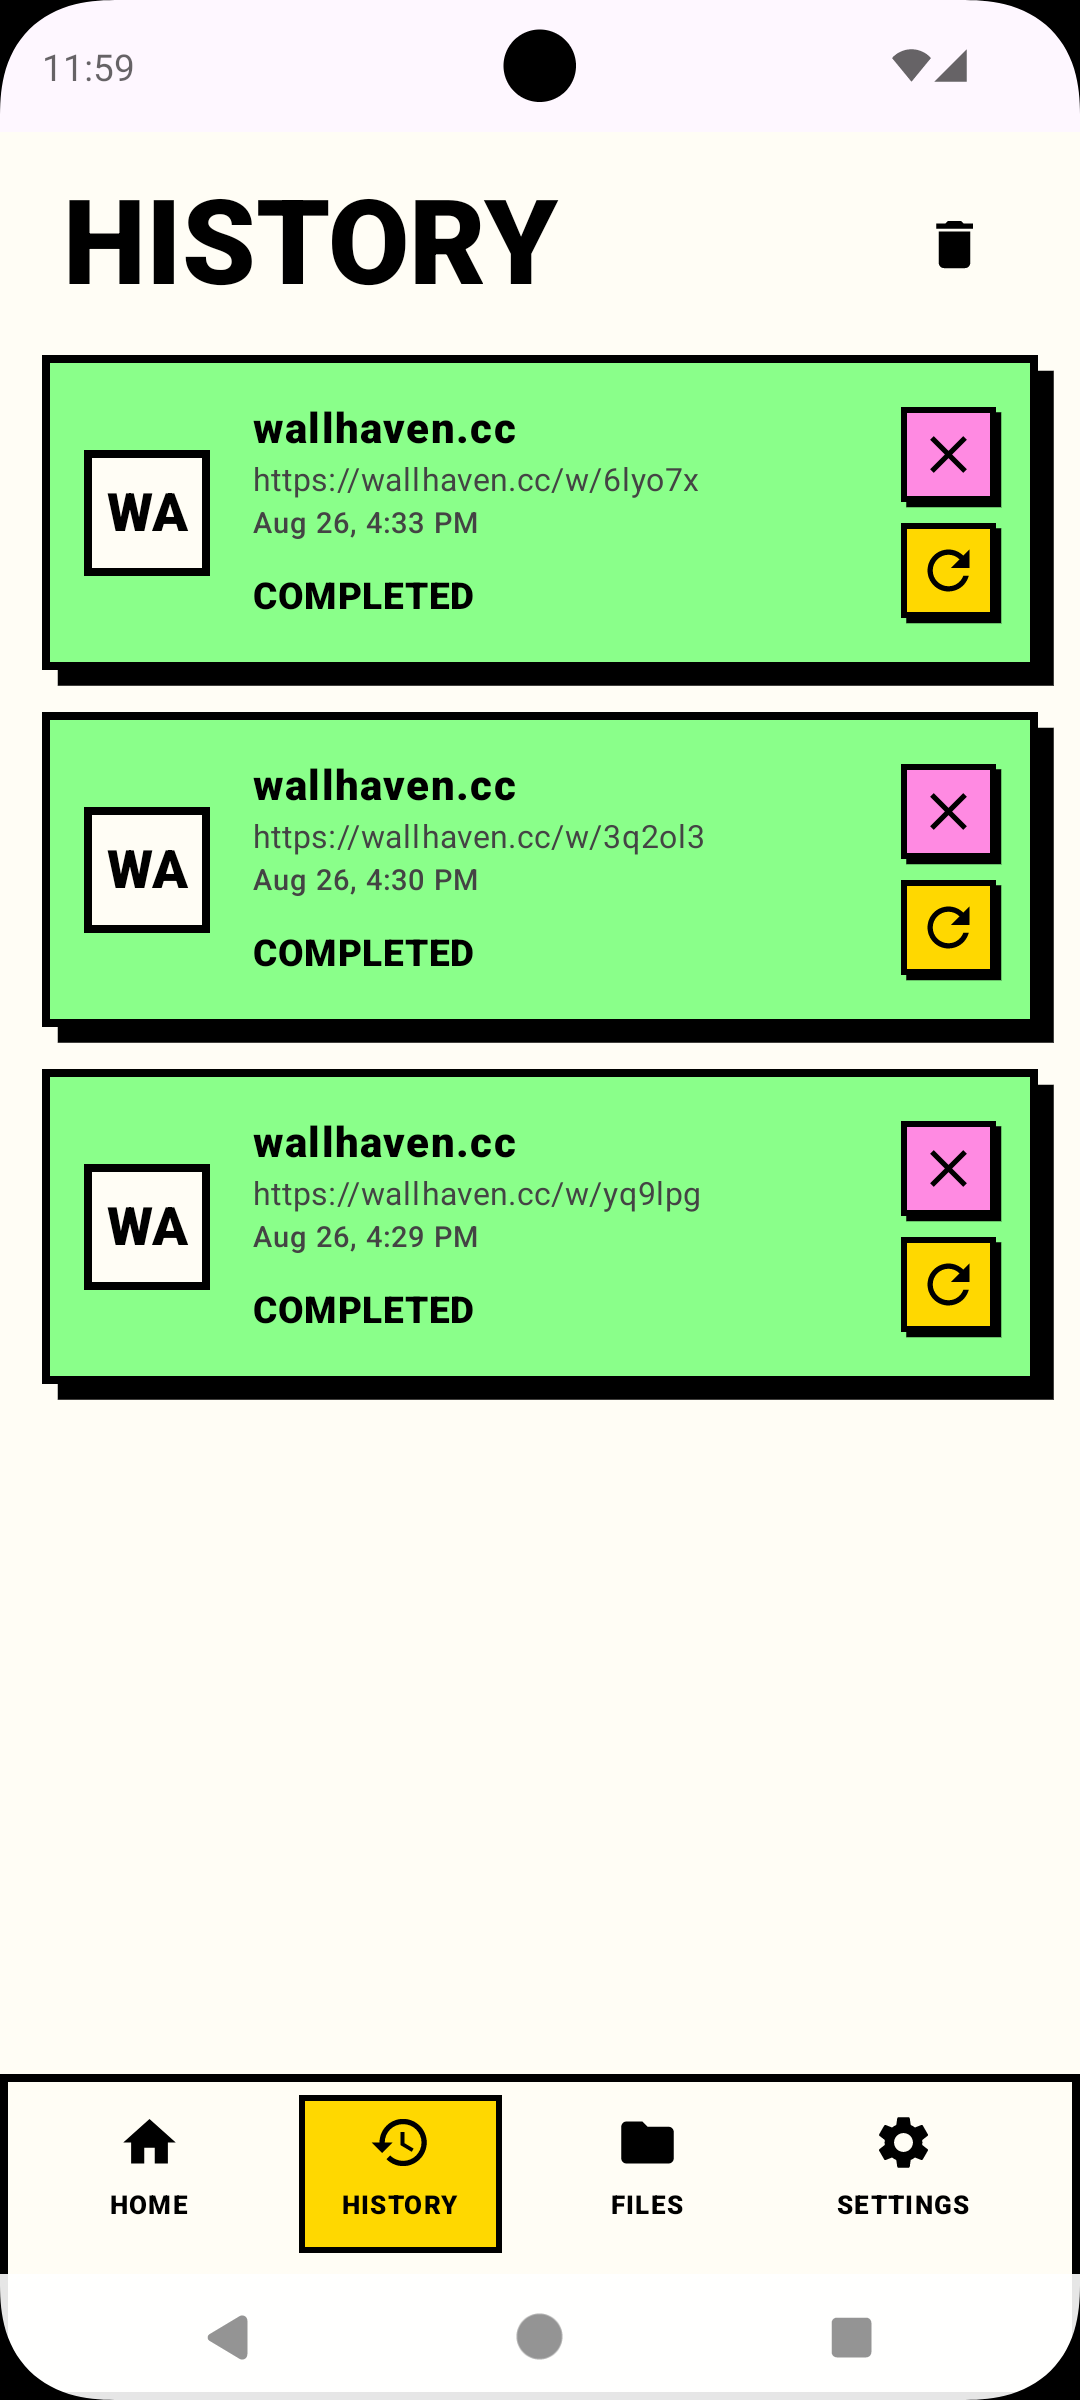
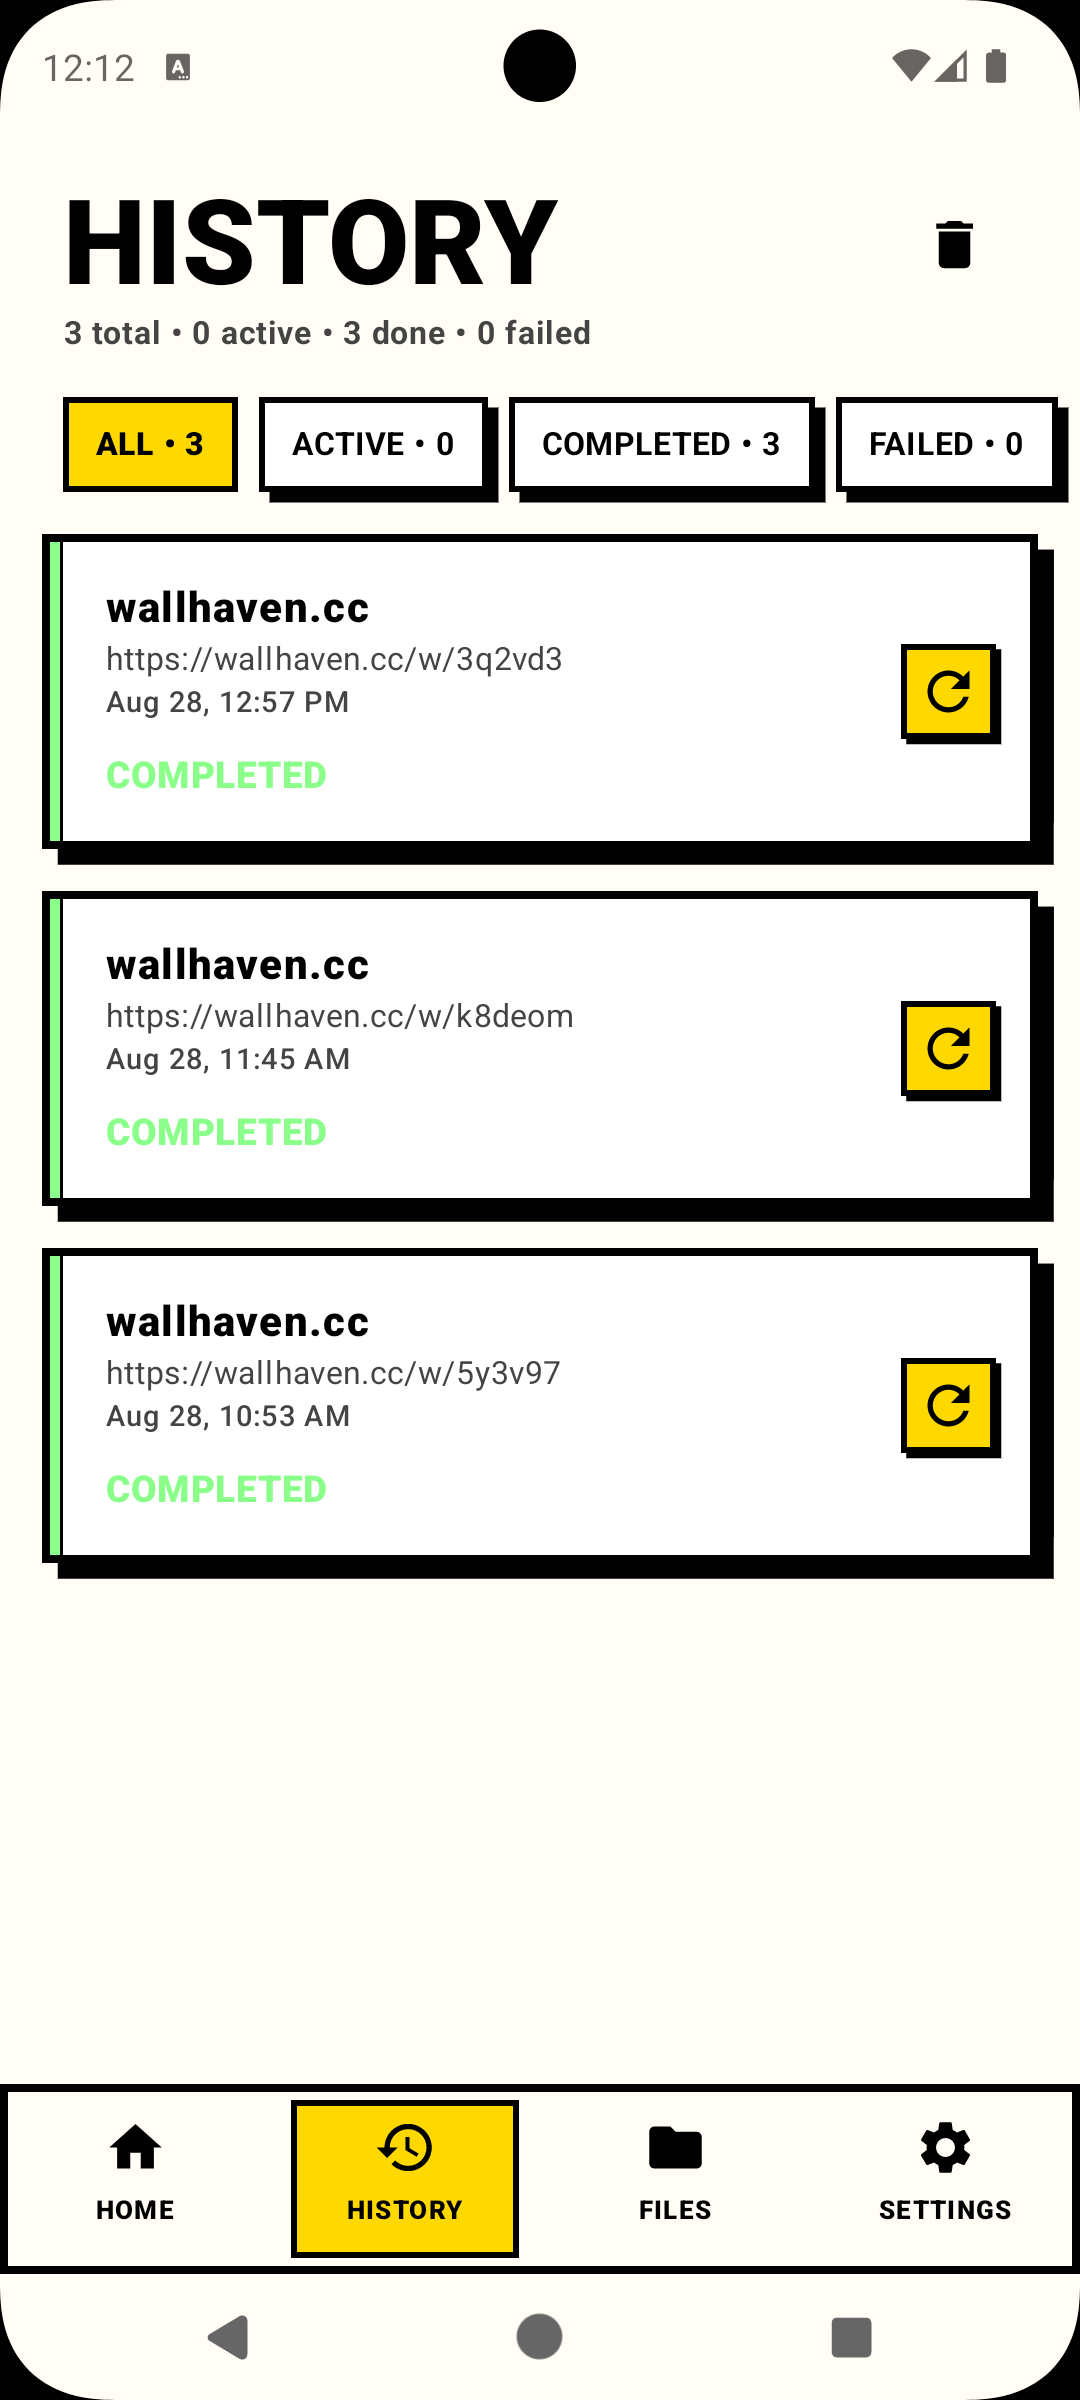
README.md Update

diff --git a/README.md b/README.md
@@ -11,7 +11,7 @@
 <div align="center">
   <img src="docs/images/Home.png" width="19%" />
   <img src="docs/images/History.png" width="19%" />
-  <img src="docs/images/Files1.png" width="19%" />
+  <img src="docs/images/Files.png" width="19%" />
   <img src="docs/images/Files2.png" width="19%" />
   <img src="docs/images/Settings.png" width="19%" />
 </div>
